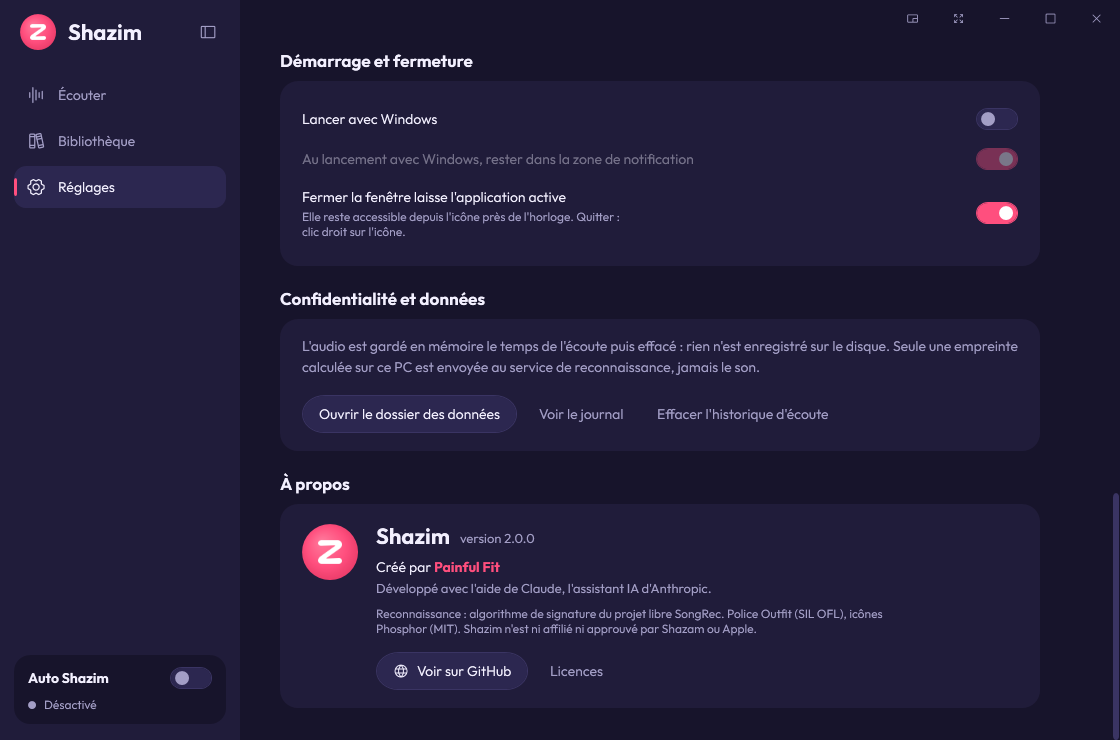
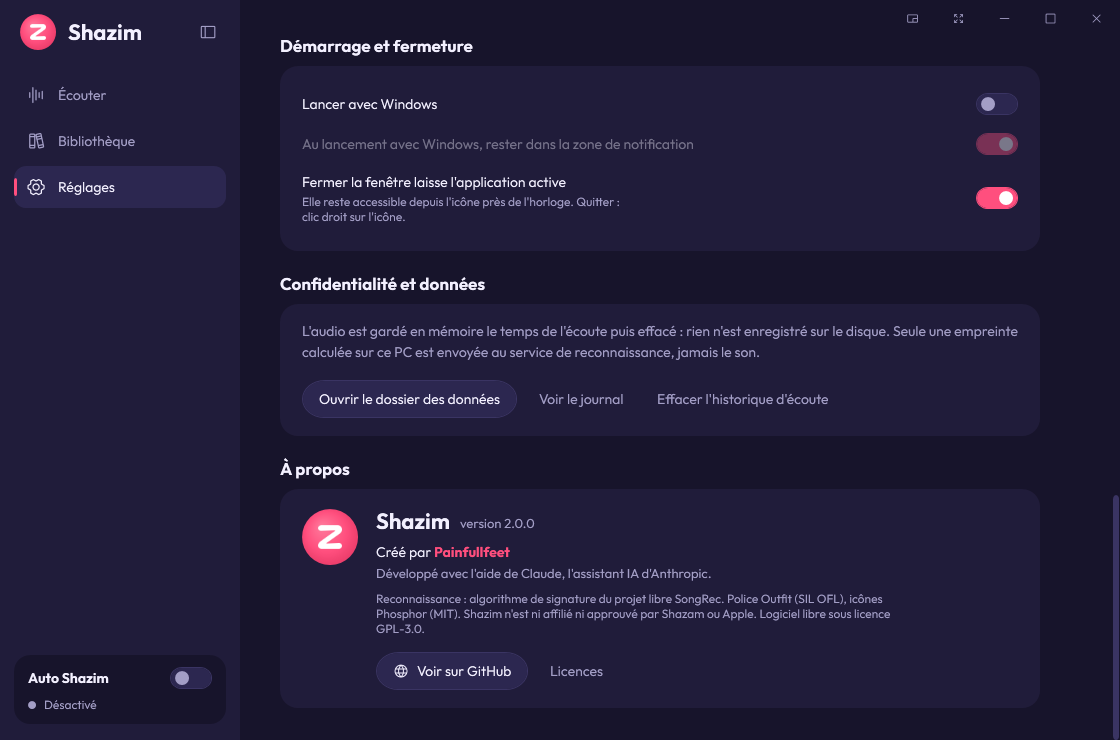
Credit Painfullfeet as the author

diff --git a/src/Shazim/App/Views/SettingsView.xaml b/src/Shazim/App/Views/SettingsView.xaml
@@ -230,7 +230,7 @@
                             <TextBlock x:Name="VersionText" Style="{StaticResource MutedText}" VerticalAlignment="Bottom" Margin="10,0,0,4"/>
                         </StackPanel>
                         <TextBlock Style="{StaticResource BodyText}" Margin="0,8,0,0" TextWrapping="Wrap" TextTrimming="None">
-                            <Run Text="{infra:T about.made_by}"/> <Run Text="Painful Fit" FontWeight="Bold" Foreground="{DynamicResource SignalBrush}"/>
+                            <Run Text="{infra:T about.made_by}"/> <Run Text="Painfullfeet" FontWeight="Bold" Foreground="{DynamicResource SignalBrush}"/>
                         </TextBlock>
                         <TextBlock Text="{infra:T about.with_claude}" Style="{StaticResource MutedText}" Margin="0,4,0,0" TextWrapping="Wrap" TextTrimming="None"/>
                         <TextBlock Text="{infra:T about.credits}" Style="{StaticResource RowHint}" Margin="0,10,0,0" MaxWidth="560"/>

diff --git a/src/Shazim/App/Setup/SetupWindow.xaml b/src/Shazim/App/Setup/SetupWindow.xaml
@@ -127,7 +127,7 @@
                         <Run Text="Shazim"/>
                         <Run Text=" · "/>
                         <Run Text="{infra:T about.made_by}"/>
-                        <Run Text="Painful Fit" Foreground="{StaticResource PaperBrush}" FontWeight="Bold"/>
+                        <Run Text="Painfullfeet" Foreground="{StaticResource PaperBrush}" FontWeight="Bold"/>
                         <Run Text=" · GPL-3.0"/>
                     </TextBlock>
                 </StackPanel>

diff --git a/src/Shazim/App/Setup/Installer.cs b/src/Shazim/App/Setup/Installer.cs
@@ -186,7 +186,7 @@ public static class Installer
         using var key = Registry.CurrentUser.CreateSubKey(UninstallKey);
         key.SetValue("DisplayName", "Shazim");
         key.SetValue("DisplayVersion", Version);
-        key.SetValue("Publisher", "Painful Fit");
+        key.SetValue("Publisher", "Painfullfeet");
         key.SetValue("DisplayIcon", InstalledExe + ",0");
         key.SetValue("InstallLocation", InstallDir);
         key.SetValue("UninstallString", $"\"{InstalledExe}\" {UninstallArg}");

diff --git a/README.md b/README.md
@@ -226,7 +226,7 @@ L'architecture du code est décrite dans [ARCHITECTURE.md](ARCHITECTURE.md). Les
 
 ## Crédits et licences
 
-Créé par **Painful Fit**, avec l'aide de **[Claude](https://claude.ai)**, l'assistant IA d'Anthropic.
+Créé par **Painfullfeet**, avec l'aide de **[Claude](https://claude.ai)**, l'assistant IA d'Anthropic.
 
 | Élément | Source | Licence |
 |---|---|---|
@@ -250,5 +250,5 @@ Shazim est un logiciel libre distribué sous licence **[GNU GPL v3](LICENSE)**.
 <div align="center">
 <sub>Mots-clés : reconnaissance musicale PC · identifier une chanson sur Windows · Shazam pour PC · trouver le titre d'une musique · audio fingerprinting · music recognition Windows · song identifier desktop</sub>
 <br><br>
-<sub>Fait avec ❤ par Painful Fit · Si Shazim t'est utile, laisse une ⭐ !</sub>
+<sub>Fait avec ❤ par Painfullfeet · Si Shazim t'est utile, laisse une ⭐ !</sub>
 </div>

diff --git a/README.en.md b/README.en.md
@@ -219,7 +219,7 @@ The code architecture is described in [ARCHITECTURE.md](ARCHITECTURE.md) (French
 
 ## Credits and licences
 
-Made by **Painful Fit**, with the help of **[Claude](https://claude.ai)**, Anthropic's AI assistant.
+Made by **Painfullfeet**, with the help of **[Claude](https://claude.ai)**, Anthropic's AI assistant.
 
 | Part | Source | Licence |
 |---|---|---|
@@ -243,5 +243,5 @@ Shazim is free software released under the **[GNU GPL v3](LICENSE)**.
 <div align="center">
 <sub>Keywords: music recognition for PC · identify a song on Windows · Shazam for PC · Shazam for Windows alternative · what song is this · audio fingerprinting · song identifier desktop app</sub>
 <br><br>
-<sub>Made with ❤ by Painful Fit · If Shazim helps you, leave a ⭐!</sub>
+<sub>Made with ❤ by Painfullfeet · If Shazim helps you, leave a ⭐!</sub>
 </div>

diff --git a/README.de.md b/README.de.md
@@ -111,7 +111,7 @@ cd Shazim
 
 ## Credits und Lizenzen
 
-Erstellt von **Painful Fit**, mit Hilfe von **[Claude](https://claude.ai)**, dem KI-Assistenten von Anthropic.
+Erstellt von **Painfullfeet**, mit Hilfe von **[Claude](https://claude.ai)**, dem KI-Assistenten von Anthropic.
 
 Signatur-Algorithmus: Portierung von [SongRec](https://github.com/marin-m/SongRec) (GPL-3.0) · Audio: [NAudio](https://github.com/naudio/NAudio) (MIT) · Schrift: [Outfit](https://github.com/Outfitio/Outfit-Fonts) (SIL OFL) · Icons: [Phosphor](https://phosphoricons.com) (MIT).
 

diff --git a/README.es.md b/README.es.md
@@ -111,7 +111,7 @@ cd Shazim
 
 ## Créditos y licencias
 
-Creado por **Painful Fit**, con la ayuda de **[Claude](https://claude.ai)**, el asistente de IA de Anthropic.
+Creado por **Painfullfeet**, con la ayuda de **[Claude](https://claude.ai)**, el asistente de IA de Anthropic.
 
 Algoritmo de firma: portado de [SongRec](https://github.com/marin-m/SongRec) (GPL-3.0) · Audio: [NAudio](https://github.com/naudio/NAudio) (MIT) · Fuente: [Outfit](https://github.com/Outfitio/Outfit-Fonts) (SIL OFL) · Iconos: [Phosphor](https://phosphoricons.com) (MIT).
 
